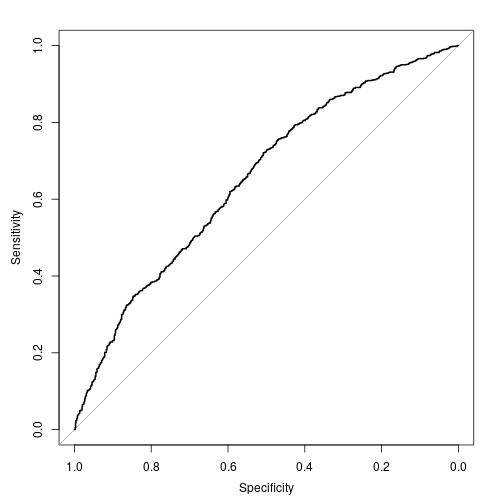
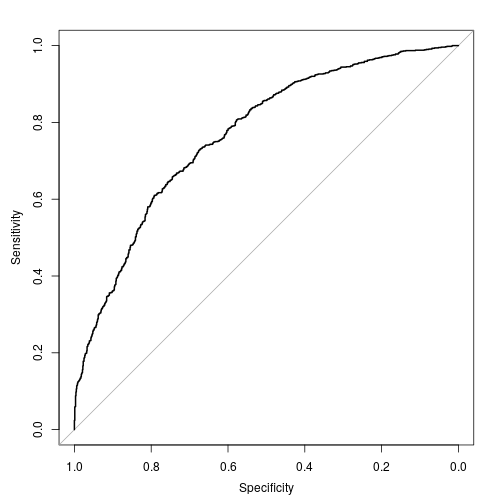
chi and signal.

diff --git a/signal_detection_theory/signal_detection_theory.md b/signal_detection_theory/signal_detection_theory.md
@@ -20,19 +20,27 @@ Amniotic Fluid Test
 ====================
 ![amniotic fluid test](https://i.blogs.es/8fd06e/amnio-eco/450_1000.jpg)
 
-Desision?
+Decision?
 ====================
 
-$$D > D_{th}$$
+$$X > X_{th}$$
 
 The boundaries are not clear
 ============================
 ![dessision](signal_detection_theory-figure/sdt.png)
 
-d-prime
+History
+=======
+![](https://upload.wikimedia.org/wikipedia/commons/thumb/0/08/Original_message.svg/800px-Original_message.svg.png) 
+
+![](https://upload.wikimedia.org/wikipedia/commons/thumb/b/b8/Received_message.svg/800px-Received_message.svg.png)
+
+Sensitivity index
 ============================
 $$d'={\frac {\mu _{S}-\mu _{N}}{\sqrt {{\frac {1}{2}}(\sigma _{S}^{2}+\sigma _{N}^{2})}}}$$
-d=0 means we can not seperate the signal from noise.
+d=0 is bad.
+d=1 acceptable.
+d=6 very good.
 
 Receiver operating characteristic (ROC)
 =======================================
@@ -44,8 +52,8 @@ We load the package, we take 2 populations.
 
 ```r
 library(pROC)
-x1 = rlnorm(1000, mean = 0.5, sd = 1)
-x2 = rlnorm(1000, mean =  1, sd = 1)
+x1 = rlnorm(1000, meanlog = 0.5, sdlog = 1)
+x2 = rlnorm(1000, meanlog =  1.5, sdlog = 1)
 df = data.frame(res=c(rep(0,length(x1)),rep(1,length(x2))), 
                 pred=c(x1,x2))
 ```
@@ -67,8 +75,14 @@ Call:
 roc.default(response = df$res, predictor = df$pred, plot = F)
 
 Data: df$pred in 1000 controls (df$res 0) < 1000 cases (df$res 1).
-Area under the curve: 0.6529
+Area under the curve: 0.7678
 ```
+
+Performance of clasisfiers
+=========================
+
+The classifier gives us the probability, 
+we should choose the treshold. 
 
 
 Comparing tests
@@ -92,9 +106,13 @@ for(i in 1:m){
   t_test2[i]   = t.test(x2)$p.value
   wil_test2[i] = wilcox.test(x2)$p.value
 }
+```
 
 
-  
+Comparing tests
+=======================================
+
+```r
 roc(c(rep(0,m), rep(1,m)), c(t_test1,t_test2), plot = F)
 ```
 
@@ -104,7 +122,7 @@ Call:
 roc.default(response = c(rep(0, m), rep(1, m)), predictor = c(t_test1,     t_test2), plot = F)
 
 Data: c(t_test1, t_test2) in 10000 controls (c(rep(0, m), rep(1, m)) 0) > 10000 cases (c(rep(0, m), rep(1, m)) 1).
-Area under the curve: 0.8872
+Area under the curve: 0.8849
 ```
 
 ```r
@@ -117,6 +135,10 @@ Call:
 roc.default(response = c(rep(0, m), rep(1, m)), predictor = c(wil_test1,     wil_test2), plot = F)
 
 Data: c(wil_test1, wil_test2) in 10000 controls (c(rep(0, m), rep(1, m)) 0) > 10000 cases (c(rep(0, m), rep(1, m)) 1).
-Area under the curve: 0.8762
+Area under the curve: 0.8732
 ```
 
+
+Comparing tests
+=======================================
+![plot of chunk unnamed-chunk-6](signal_detection_theory-figure/unnamed-chunk-6-1.png)![plot of chunk unnamed-chunk-6](signal_detection_theory-figure/unnamed-chunk-6-2.png)

diff --git a/chi/chi.md b/chi/chi.md
@@ -1,0 +1,13 @@
+chi
+========================================================
+author: Hamed Seyed-allaei
+date: 
+autosize: true
+
+Goodness of fit
+========================================================
+$${\frac {({\text{observed}}-{\text{expected}})^{2}}{\text{expected}}}$$
+
+chi-squared
+========================================================
+$$\chi^2 = \sum_{i=1}^n {\frac{(O_i - E_i)}{E_i}^2}$$
